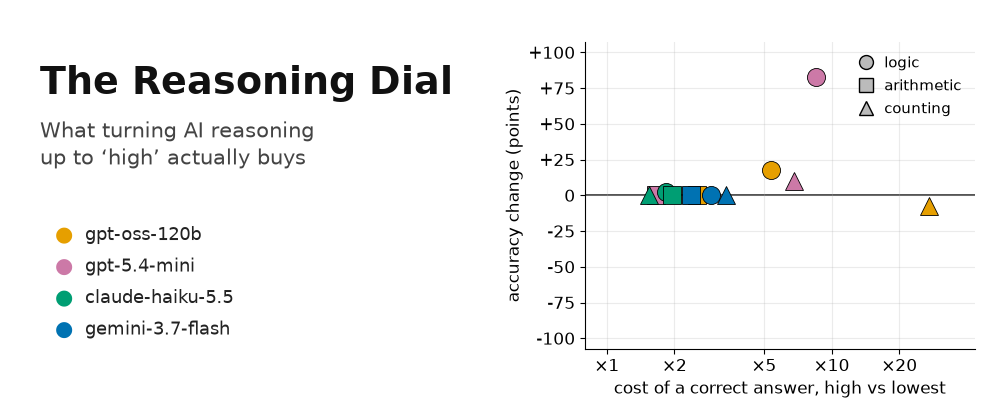
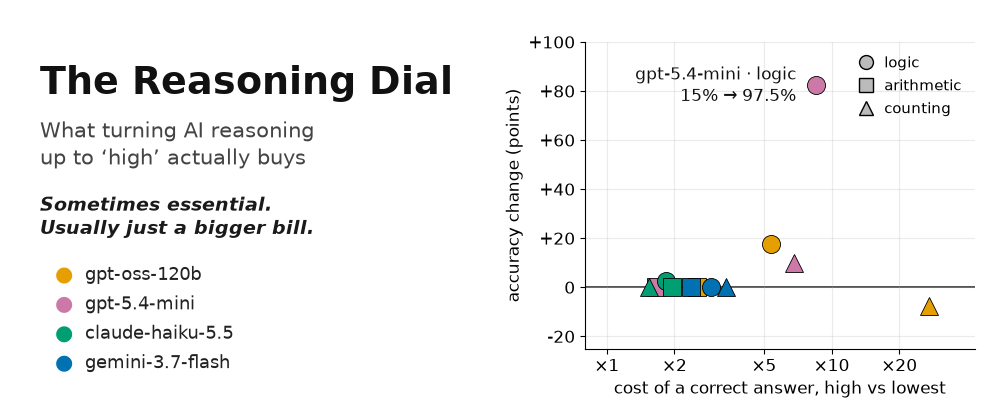
Figures: random-guess line on Fig 1 Deduce; cover tagline, fixed y-range, data-driven headline label

diff --git a/analysis/analyze.py b/analysis/analyze.py
@@ -465,6 +465,11 @@ def fig_dial_curves(acc, fig_dir, full, short):
                     label=_short(m), lw=2.2, ms=8)
             ax.fill_between(x, a.loc[lvls, "ci_lo"], a.loc[lvls, "ci_hi"], color=_color(m), alpha=0.15)
         ax.set_title(FAMILY_TITLE[fam])
+        if fam == "deduce":
+            # Deduce answers are one of 7 names, so blind guessing scores 1/7.
+            ax.axhline(1 / 7, color="#888888", ls="--", lw=1.4, zorder=0)
+            ax.text(3.15, 1 / 7 + 0.02, "random guess (1 in 7 names)", ha="right", va="bottom",
+                    fontsize=11, color="#555555")
         ax.set_xticks(range(4), LEVELS)
         ax.set_xlabel("reasoning effort")
         ax.set_ylim(-0.02, 1.06)
@@ -717,7 +722,7 @@ def fig_cover(tests, cost, fig_dir):
         hi, lo = c.loc["high", "cost_per_correct"], c.loc[r.baseline, "cost_per_correct"]
         if pd.isna(hi) or pd.isna(lo) or lo <= 0:
             continue
-        rows.append((r.model, r.family, hi / lo, r.delta * 100))
+        rows.append((r.model, r.family, hi / lo, r.delta * 100, r.acc_base, r.acc_high))
 
     with plt.rc_context({"font.size": 13}):
         fig = plt.figure(figsize=(10, 4.2), dpi=100, facecolor="white")
@@ -725,14 +730,16 @@ def fig_cover(tests, cost, fig_dir):
                  va="center")
         fig.text(0.04, 0.655, "What turning AI reasoning\nup to ‘high’ actually buys", fontsize=15,
                  color="#444444", va="center", linespacing=1.3)
+        fig.text(0.04, 0.485, "Sometimes essential.\nUsually just a bigger bill.", fontsize=14,
+                 fontweight="bold", fontstyle="italic", color="#1a1a1a", va="center", linespacing=1.3)
         models = [m for m in LINEUP if m in {r[0] for r in rows}]
         for i, m in enumerate(models):
-            y = 0.44 - i * 0.075
+            y = 0.345 - i * 0.07
             fig.text(0.055, y, "●", fontsize=15, color=_color(m), va="center")
             fig.text(0.085, y, _short(m), fontsize=13, color="#222222", va="center")
 
         ax = fig.add_axes((0.585, 0.17, 0.39, 0.73))
-        for m, fam, x, y in rows:
+        for m, fam, x, y, *_ in rows:
             ax.plot(x, y, marker=FAMILY_MARKER[fam], color=_color(m), ms=13, mec="black", mew=0.6,
                     ls="", zorder=3)
         ax.axhline(0, color="#333333", lw=1.2, zorder=1)
@@ -741,8 +748,13 @@ def fig_cover(tests, cost, fig_dir):
         ax.set_xlim(min(0.8, min(xs) / 1.4), max(25, max(xs) * 1.6))
         _times_axis(ax)
         ys = [r[3] for r in rows] or [0]
-        span = max(15, max(abs(v) for v in ys) * 1.3)
-        ax.set_ylim(min(-span, min(ys) - 5), max(span, max(ys) + 5))
+        ax.set_ylim(min(-25, min(ys) - 10), max(100, max(ys) + 10))
+        if rows:
+            m, fam, x, y, a0, a1 = max(rows, key=lambda r: r[3])
+            pct = lambda v: f"{v * 100:.1f}".rstrip("0").rstrip(".") + "%"  # 0.975 -> 97.5%, 0.15 -> 15%
+            ax.annotate(f"{_short(m)} · {FAMILY_WORD[fam]}\n{pct(a0)} → {pct(a1)}", (x, y),
+                        textcoords="offset points", xytext=(-14, 0), ha="right", va="center",
+                        fontsize=12, color="#111111", linespacing=1.2)
         ax.yaxis.set_major_formatter(matplotlib.ticker.FuncFormatter(lambda v, _: f"{v:+.0f}" if v else "0"))
         ax.set_xlabel("cost of a correct answer, high vs lowest", fontsize=12)
         ax.set_ylabel("accuracy change (points)", fontsize=12)
